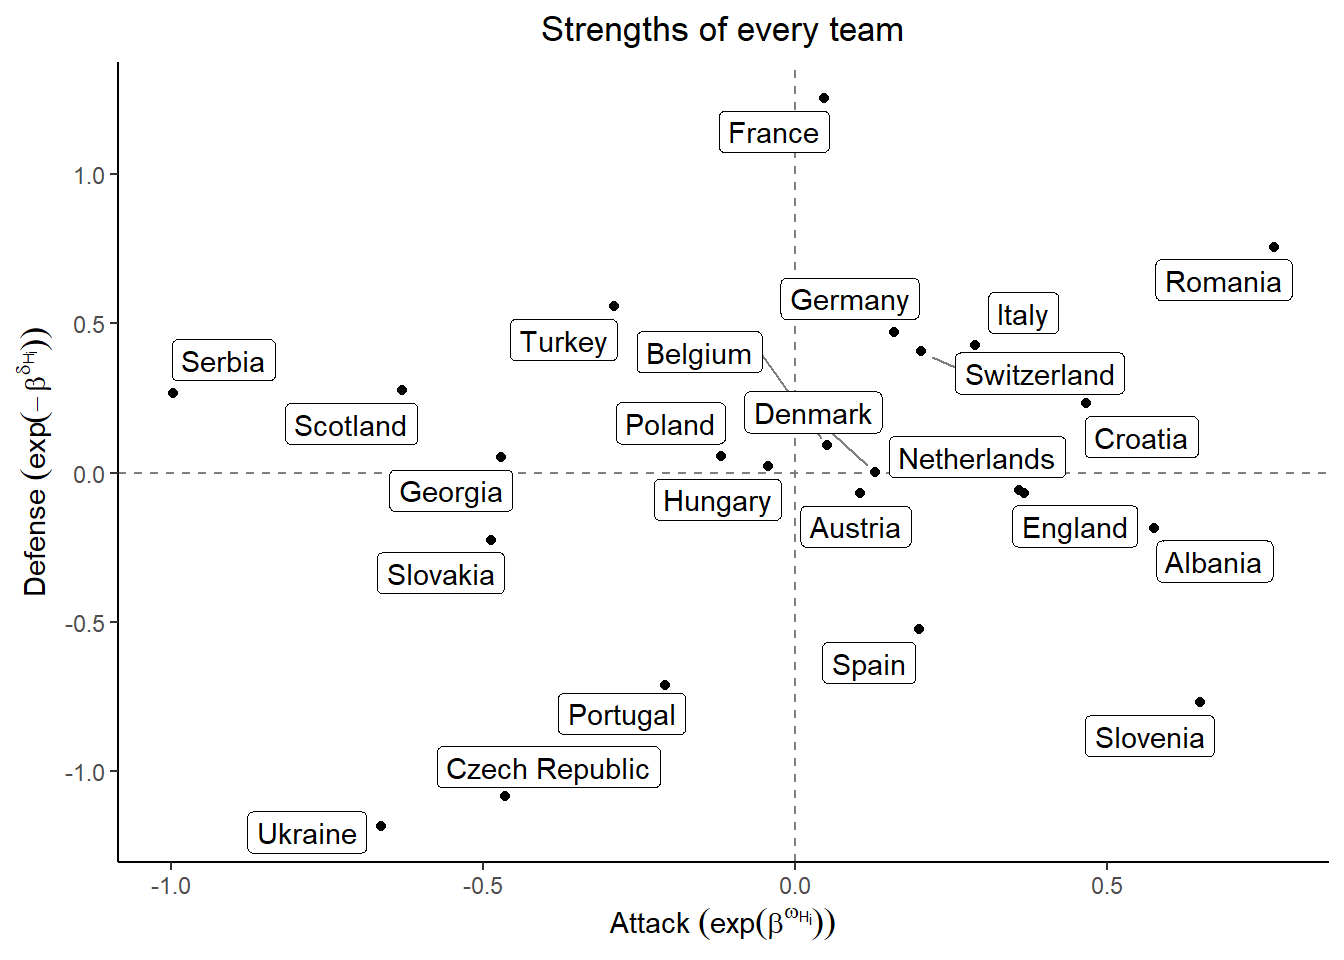
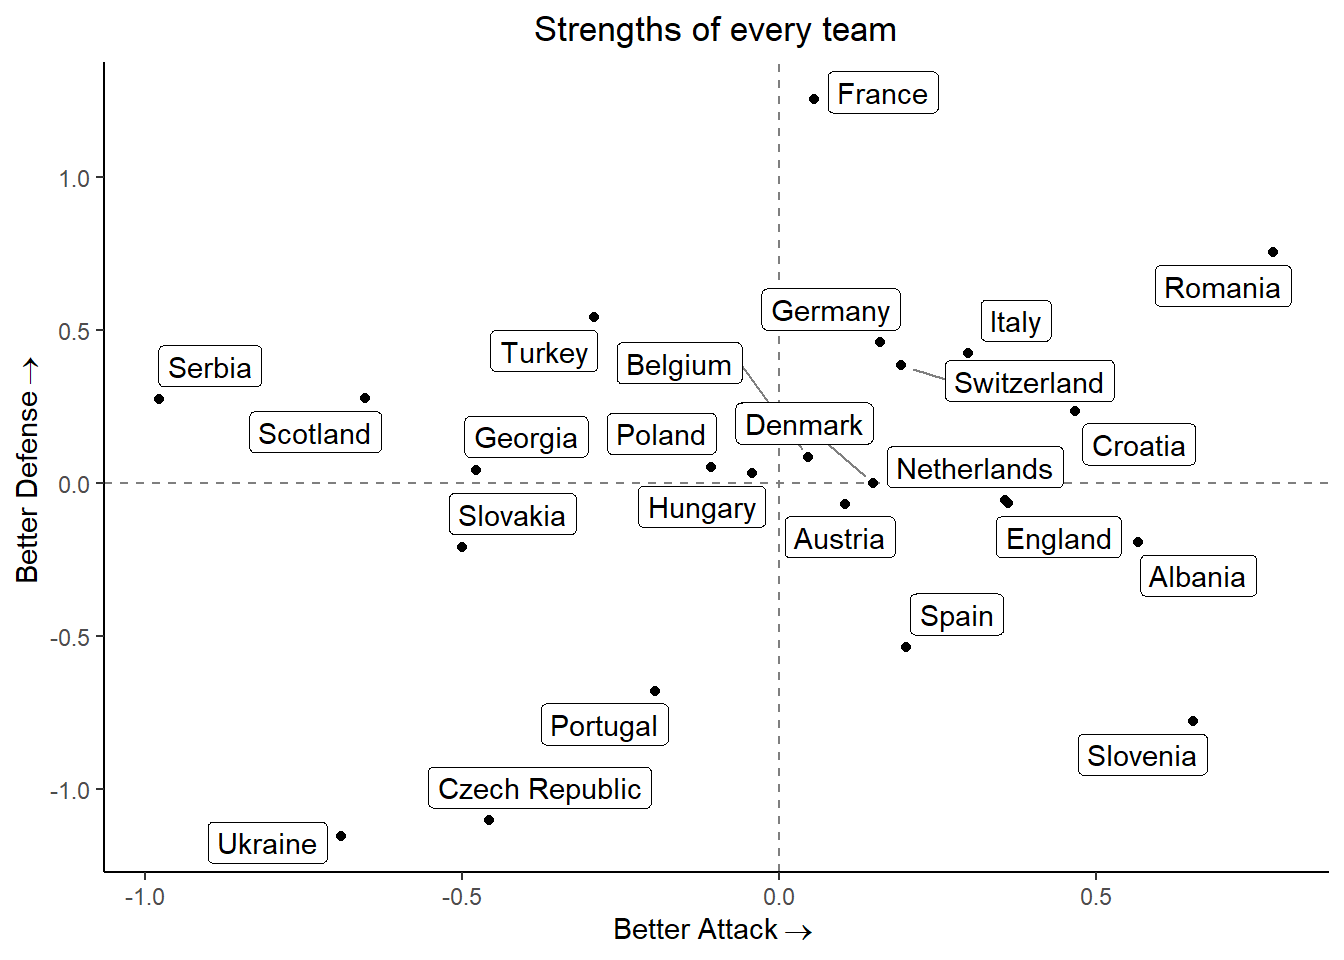
new project

diff --git a/docs/projects/euro_2024.html b/docs/projects/euro_2024.html
@@ -156,11 +156,22 @@ pre > code.sourceCode > span > a:first-child::before { text-decoration: underlin
 <div id="quarto-content" class="quarto-container page-columns page-rows-contents page-layout-full page-navbar">
 <!-- sidebar -->
 <!-- margin-sidebar -->
-    <div id="quarto-margin-sidebar" class="sidebar margin-sidebar zindex-bottom">
-        
+    <div id="quarto-margin-sidebar" class="sidebar margin-sidebar">
+        <nav id="TOC" role="doc-toc" class="toc-active">
+    <h2 id="toc-title">On this page</h2>
+   
+  <ul>
+  <li><a href="#packages" id="toc-packages" class="nav-link active" data-scroll-target="#packages">Packages</a></li>
+  <li><a href="#data" id="toc-data" class="nav-link" data-scroll-target="#data">Data</a></li>
+  <li><a href="#fitting-the-model" id="toc-fitting-the-model" class="nav-link" data-scroll-target="#fitting-the-model">Fitting the model</a>
+  <ul class="collapse">
+  <li><a href="#estimated-parameters" id="toc-estimated-parameters" class="nav-link" data-scroll-target="#estimated-parameters">Estimated Parameters</a></li>
+  </ul></li>
+  </ul>
+</nav>
     </div>
 <!-- main -->
-<main class="content column-page" id="quarto-document-content">
+<main class="content column-page-left" id="quarto-document-content">
 
 <header id="title-block-header" class="quarto-title-block default">
 <div class="quarto-title">
@@ -169,7 +180,7 @@ pre > code.sourceCode > span > a:first-child::before { text-decoration: underlin
 
 
 
-<div class="quarto-title-meta column-page">
+<div class="quarto-title-meta column-page-left">
 
     
   
@@ -182,24 +193,29 @@ pre > code.sourceCode > span > a:first-child::before { text-decoration: underlin
 
 
 <p>In this project, I will propose a model to predict the scores in the Euro 2024.</p>
-<p>The data is contained in this repository <a href="https://github.com/martj42/international_results" class="uri">https://github.com/martj42/international_results</a>.</p>
-<div class="cell">
-<div class="sourceCode cell-code" id="cb1"><pre class="sourceCode r code-with-copy"><code class="sourceCode r"><span id="cb1-1"><a href="#cb1-1" aria-hidden="true" tabindex="-1"></a>urlfile <span class="ot">=</span> <span class="st">"https://raw.githubusercontent.com/martj42/international_results/master/results.csv"</span></span></code><button title="Copy to Clipboard" class="code-copy-button"><i class="bi"></i></button></pre></div>
-</div>
+<section id="packages" class="level2">
+<h2 class="anchored" data-anchor-id="packages">Packages</h2>
 <p>I will use a Bayesian model, so we need the following libraries</p>
 <div class="cell">
-<div class="sourceCode cell-code" id="cb2"><pre class="sourceCode r code-with-copy"><code class="sourceCode r"><span id="cb2-1"><a href="#cb2-1" aria-hidden="true" tabindex="-1"></a><span class="fu">require</span>(rstanarm)</span>
-<span id="cb2-2"><a href="#cb2-2" aria-hidden="true" tabindex="-1"></a><span class="fu">require</span>(rstantools)</span>
-<span id="cb2-3"><a href="#cb2-3" aria-hidden="true" tabindex="-1"></a><span class="fu">require</span>(bayesplot)</span></code><button title="Copy to Clipboard" class="code-copy-button"><i class="bi"></i></button></pre></div>
+<div class="sourceCode cell-code" id="cb1"><pre class="sourceCode r code-with-copy"><code class="sourceCode r"><span id="cb1-1"><a href="#cb1-1" aria-hidden="true" tabindex="-1"></a><span class="fu">require</span>(rstanarm)</span>
+<span id="cb1-2"><a href="#cb1-2" aria-hidden="true" tabindex="-1"></a><span class="fu">require</span>(rstantools)</span>
+<span id="cb1-3"><a href="#cb1-3" aria-hidden="true" tabindex="-1"></a><span class="fu">require</span>(bayesplot)</span></code><button title="Copy to Clipboard" class="code-copy-button"><i class="bi"></i></button></pre></div>
 </div>
 <p>As well as</p>
 <div class="cell">
-<div class="sourceCode cell-code" id="cb3"><pre class="sourceCode r code-with-copy"><code class="sourceCode r"><span id="cb3-1"><a href="#cb3-1" aria-hidden="true" tabindex="-1"></a><span class="fu">require</span>(readr)</span>
-<span id="cb3-2"><a href="#cb3-2" aria-hidden="true" tabindex="-1"></a><span class="fu">require</span>(dplyr)</span>
-<span id="cb3-3"><a href="#cb3-3" aria-hidden="true" tabindex="-1"></a><span class="fu">require</span>(lubridate)</span>
-<span id="cb3-4"><a href="#cb3-4" aria-hidden="true" tabindex="-1"></a><span class="fu">require</span>(ggplot2)</span>
-<span id="cb3-5"><a href="#cb3-5" aria-hidden="true" tabindex="-1"></a><span class="fu">require</span>(ggrepel)</span>
-<span id="cb3-6"><a href="#cb3-6" aria-hidden="true" tabindex="-1"></a><span class="fu">require</span>(latex2exp)</span></code><button title="Copy to Clipboard" class="code-copy-button"><i class="bi"></i></button></pre></div>
+<div class="sourceCode cell-code" id="cb2"><pre class="sourceCode r code-with-copy"><code class="sourceCode r"><span id="cb2-1"><a href="#cb2-1" aria-hidden="true" tabindex="-1"></a><span class="fu">require</span>(readr)</span>
+<span id="cb2-2"><a href="#cb2-2" aria-hidden="true" tabindex="-1"></a><span class="fu">require</span>(dplyr)</span>
+<span id="cb2-3"><a href="#cb2-3" aria-hidden="true" tabindex="-1"></a><span class="fu">require</span>(lubridate)</span>
+<span id="cb2-4"><a href="#cb2-4" aria-hidden="true" tabindex="-1"></a><span class="fu">require</span>(ggplot2)</span>
+<span id="cb2-5"><a href="#cb2-5" aria-hidden="true" tabindex="-1"></a><span class="fu">require</span>(ggrepel)</span>
+<span id="cb2-6"><a href="#cb2-6" aria-hidden="true" tabindex="-1"></a><span class="fu">require</span>(latex2exp)</span></code><button title="Copy to Clipboard" class="code-copy-button"><i class="bi"></i></button></pre></div>
+</div>
+</section>
+<section id="data" class="level2">
+<h2 class="anchored" data-anchor-id="data">Data</h2>
+<p>The data is contained in this repository <a href="https://github.com/martj42/international_results" class="uri">https://github.com/martj42/international_results</a>.</p>
+<div class="cell">
+<div class="sourceCode cell-code" id="cb3"><pre class="sourceCode r code-with-copy"><code class="sourceCode r"><span id="cb3-1"><a href="#cb3-1" aria-hidden="true" tabindex="-1"></a>urlfile <span class="ot">=</span> <span class="st">"https://raw.githubusercontent.com/martj42/international_results/master/results.csv"</span></span></code><button title="Copy to Clipboard" class="code-copy-button"><i class="bi"></i></button></pre></div>
 </div>
 <p>We load the data</p>
 <div class="cell">
@@ -260,11 +276,15 @@ pre > code.sourceCode > span > a:first-child::before { text-decoration: underlin
 <span id="cb10-6"><a href="#cb10-6" aria-hidden="true" tabindex="-1"></a>  <span class="fu">slice_min</span>(diff_date) <span class="sc">%&gt;%</span> </span>
 <span id="cb10-7"><a href="#cb10-7" aria-hidden="true" tabindex="-1"></a>  <span class="fu">select</span>(id, score, team, adversary, condition, <span class="at">date_game =</span> date.x, <span class="at">ranking_adv =</span> ranking, <span class="at">date_rank =</span> date.y)</span></code><button title="Copy to Clipboard" class="code-copy-button"><i class="bi"></i></button></pre></div>
 </div>
+</section>
+<section id="fitting-the-model" class="level2">
+<h2 class="anchored" data-anchor-id="fitting-the-model">Fitting the model</h2>
 <p>To fit the model I would consider the scores Neg. Binomial distributed for simplicity, one better option is the Conway-Maxwell-Poisson. However, we will use a simple model for computational reasons.</p>
 <div class="cell">
 <div class="sourceCode cell-code" id="cb11"><pre class="sourceCode r code-with-copy"><code class="sourceCode r"><span id="cb11-1"><a href="#cb11-1" aria-hidden="true" tabindex="-1"></a>model <span class="ot">&lt;-</span> <span class="fu">stan_glm</span>(score <span class="sc">~</span> <span class="dv">1</span> <span class="sc">+</span> team <span class="sc">+</span> adversary <span class="sc">+</span> condition, <span class="at">data =</span> total_scores, <span class="at">family =</span> poisson, <span class="at">iter =</span> <span class="dv">5000</span>, <span class="at">contrasts =</span> <span class="fu">list</span>(<span class="at">team =</span> <span class="st">"contr.sum"</span>, <span class="at">adversary =</span> <span class="st">"contr.sum"</span>))</span></code><button title="Copy to Clipboard" class="code-copy-button"><i class="bi"></i></button></pre></div>
 </div>
-<p>We can plot the estimated parameters. Choosing only those playing the Euro.</p>
+<section id="estimated-parameters" class="level3">
+<h3 class="anchored" data-anchor-id="estimated-parameters">Estimated Parameters</h3>
 <div class="cell">
 <div class="sourceCode cell-code" id="cb12"><pre class="sourceCode r code-with-copy"><code class="sourceCode r"><span id="cb12-1"><a href="#cb12-1" aria-hidden="true" tabindex="-1"></a>strength_att <span class="ot">&lt;-</span> model<span class="sc">$</span>coefficients[<span class="dv">2</span><span class="sc">:</span><span class="dv">24</span>]</span>
 <span id="cb12-2"><a href="#cb12-2" aria-hidden="true" tabindex="-1"></a>strength_att <span class="ot">&lt;-</span> <span class="fu">c</span>(strength_att, <span class="dv">0</span> <span class="sc">-</span> <span class="fu">sum</span>(strength_att))</span>
@@ -276,26 +296,32 @@ pre > code.sourceCode > span > a:first-child::before { text-decoration: underlin
 </div>
 <p>Now, we can plot the estimated strengths in the following way:</p>
 <div class="cell">
-<div class="sourceCode cell-code" id="cb13"><pre class="sourceCode markdown code-overflow-wrap code-with-copy"><code class="sourceCode markdown"><span id="cb13-1"><a href="#cb13-1" aria-hidden="true" tabindex="-1"></a><span class="in">```{r}</span></span>
-<span id="cb13-2"><a href="#cb13-2" aria-hidden="true" tabindex="-1"></a><span class="in">#| output: false</span></span>
-<span id="cb13-3"><a href="#cb13-3" aria-hidden="true" tabindex="-1"></a><span class="in">#| code-overflow: wrap</span></span>
-<span id="cb13-4"><a href="#cb13-4" aria-hidden="true" tabindex="-1"></a><span class="in">ggplot(coeffs, aes(x = strength_att, y = strength_def)) +</span></span>
-<span id="cb13-5"><a href="#cb13-5" aria-hidden="true" tabindex="-1"></a><span class="in">  geom_hline(yintercept = 0, linetype = "dashed", color = "grey50") +</span></span>
-<span id="cb13-6"><a href="#cb13-6" aria-hidden="true" tabindex="-1"></a><span class="in">  geom_vline(xintercept = 0, linetype = "dashed", color = "grey50") +</span></span>
-<span id="cb13-7"><a href="#cb13-7" aria-hidden="true" tabindex="-1"></a><span class="in">  geom_point() +</span></span>
-<span id="cb13-8"><a href="#cb13-8" aria-hidden="true" tabindex="-1"></a><span class="in">  geom_label_repel(aes(label = team),</span></span>
-<span id="cb13-9"><a href="#cb13-9" aria-hidden="true" tabindex="-1"></a><span class="in">                            box.padding = 0.25,</span></span>
-<span id="cb13-10"><a href="#cb13-10" aria-hidden="true" tabindex="-1"></a><span class="in">                            point.padding = 0.5,</span></span>
-<span id="cb13-11"><a href="#cb13-11" aria-hidden="true" tabindex="-1"></a><span class="in">                            segment.color = "grey50") +</span></span>
-<span id="cb13-12"><a href="#cb13-12" aria-hidden="true" tabindex="-1"></a><span class="in">  labs(title = "Strengths of every team",</span></span>
-<span id="cb13-13"><a href="#cb13-13" aria-hidden="true" tabindex="-1"></a><span class="in">       x = TeX("Attack $(\\exp(\\beta^{\\omega_{H_i}}))$"), </span></span>
-<span id="cb13-14"><a href="#cb13-14" aria-hidden="true" tabindex="-1"></a><span class="in">       y = TeX("Defense $(\\exp(-\\beta^{\\delta_{H_i}}))$")) + </span></span>
-<span id="cb13-15"><a href="#cb13-15" aria-hidden="true" tabindex="-1"></a><span class="in">  theme_classic() +</span></span>
-<span id="cb13-16"><a href="#cb13-16" aria-hidden="true" tabindex="-1"></a><span class="in">  theme(plot.title = element_text(hjust = 0.5))</span></span>
-<span id="cb13-17"><a href="#cb13-17" aria-hidden="true" tabindex="-1"></a><span class="in">```</span></span></code><button title="Copy to Clipboard" class="code-copy-button"><i class="bi"></i></button></pre></div>
+<div class="sourceCode cell-code" id="cb13"><pre class="sourceCode r code-with-copy"><code class="sourceCode r"><span id="cb13-1"><a href="#cb13-1" aria-hidden="true" tabindex="-1"></a><span class="fu">ggplot</span>(coeffs, <span class="fu">aes</span>(<span class="at">x =</span> strength_att, <span class="at">y =</span> strength_def)) <span class="sc">+</span></span>
+<span id="cb13-2"><a href="#cb13-2" aria-hidden="true" tabindex="-1"></a>  <span class="fu">geom_hline</span>(<span class="at">yintercept =</span> <span class="dv">0</span>, <span class="at">linetype =</span> <span class="st">"dashed"</span>, <span class="at">color =</span> <span class="st">"grey50"</span>) <span class="sc">+</span></span>
+<span id="cb13-3"><a href="#cb13-3" aria-hidden="true" tabindex="-1"></a>  <span class="fu">geom_vline</span>(<span class="at">xintercept =</span> <span class="dv">0</span>, <span class="at">linetype =</span> <span class="st">"dashed"</span>, <span class="at">color =</span> <span class="st">"grey50"</span>) <span class="sc">+</span></span>
+<span id="cb13-4"><a href="#cb13-4" aria-hidden="true" tabindex="-1"></a>  <span class="fu">geom_point</span>() <span class="sc">+</span></span>
+<span id="cb13-5"><a href="#cb13-5" aria-hidden="true" tabindex="-1"></a>  <span class="fu">geom_label_repel</span>(<span class="fu">aes</span>(<span class="at">label =</span> team),</span>
+<span id="cb13-6"><a href="#cb13-6" aria-hidden="true" tabindex="-1"></a>                            <span class="at">box.padding =</span> <span class="fl">0.25</span>,</span>
+<span id="cb13-7"><a href="#cb13-7" aria-hidden="true" tabindex="-1"></a>                            <span class="at">point.padding =</span> <span class="fl">0.5</span>,</span>
+<span id="cb13-8"><a href="#cb13-8" aria-hidden="true" tabindex="-1"></a>                            <span class="at">segment.color =</span> <span class="st">"grey50"</span>) <span class="sc">+</span></span>
+<span id="cb13-9"><a href="#cb13-9" aria-hidden="true" tabindex="-1"></a>  <span class="fu">xlab</span>(<span class="fu">expression</span>(<span class="st">"Better Attack"</span> <span class="sc">%-&gt;%</span> <span class="st">""</span>)) <span class="sc">+</span></span>
+<span id="cb13-10"><a href="#cb13-10" aria-hidden="true" tabindex="-1"></a>  <span class="fu">ylab</span>(<span class="fu">expression</span>(<span class="st">"Better Defense"</span> <span class="sc">%-&gt;%</span> <span class="st">""</span>)) <span class="sc">+</span> </span>
+<span id="cb13-11"><a href="#cb13-11" aria-hidden="true" tabindex="-1"></a>  <span class="fu">ggtitle</span>(<span class="st">"Strengths of every team"</span>) <span class="sc">+</span> </span>
+<span id="cb13-12"><a href="#cb13-12" aria-hidden="true" tabindex="-1"></a>  <span class="fu">theme_classic</span>() <span class="sc">+</span></span>
+<span id="cb13-13"><a href="#cb13-13" aria-hidden="true" tabindex="-1"></a>  <span class="fu">theme</span>(<span class="at">plot.title =</span> <span class="fu">element_text</span>(<span class="at">hjust =</span> <span class="fl">0.5</span>))</span></code><button title="Copy to Clipboard" class="code-copy-button"><i class="bi"></i></button></pre></div>
+<div class="cell-output-display">
+<div>
+<figure class="figure">
+<p><img src="euro_2024_files/figure-html/unnamed-chunk-12-1.png" class="img-fluid figure-img" width="672"></p>
+</figure>
 </div>
+</div>
+</div>
+<p>This graph provides an intuition into the strengths and abilities of every team. Teams located in the origin have an overall performance, and below the axis are worse than the averages’ team.</p>
 
 
+</section>
+</section>
 
 </main> <!-- /main -->
 <script id="quarto-html-after-body" type="application/javascript">

diff --git a/docs/projects.html b/docs/projects.html
@@ -218,10 +218,10 @@ window.Quarto = {
 <h3 class="anchored" data-anchor-id="projects">Projects</h3>
 <div id="listing-sample-listings" class="quarto-listing quarto-listing-container-default">
 <div class="list quarto-listing-default">
-<div class="quarto-post image-right" data-index="0" data-listing-file-modified-sort="1718937161302" data-listing-reading-time-sort="3" data-listing-word-count-sort="558">
+<div class="quarto-post image-right" data-index="0" data-listing-file-modified-sort="1718938744091" data-listing-reading-time-sort="3" data-listing-word-count-sort="567">
 <div class="thumbnail">
 <p><a href="./projects/euro_2024.html" class="no-external"></a></p><a href="./projects/euro_2024.html" class="no-external">
-<div class="listing-item-img-placeholder card-img-top" >&nbsp;</div>
+<p class="card-img-top"><img src="projects\euro_2024_files\figure-html\unnamed-chunk-12-1.png"  class="thumbnail-image card-img"/></p>
 </a><p><a href="./projects/euro_2024.html" class="no-external"></a></p>
 </div>
 <div class="body">
